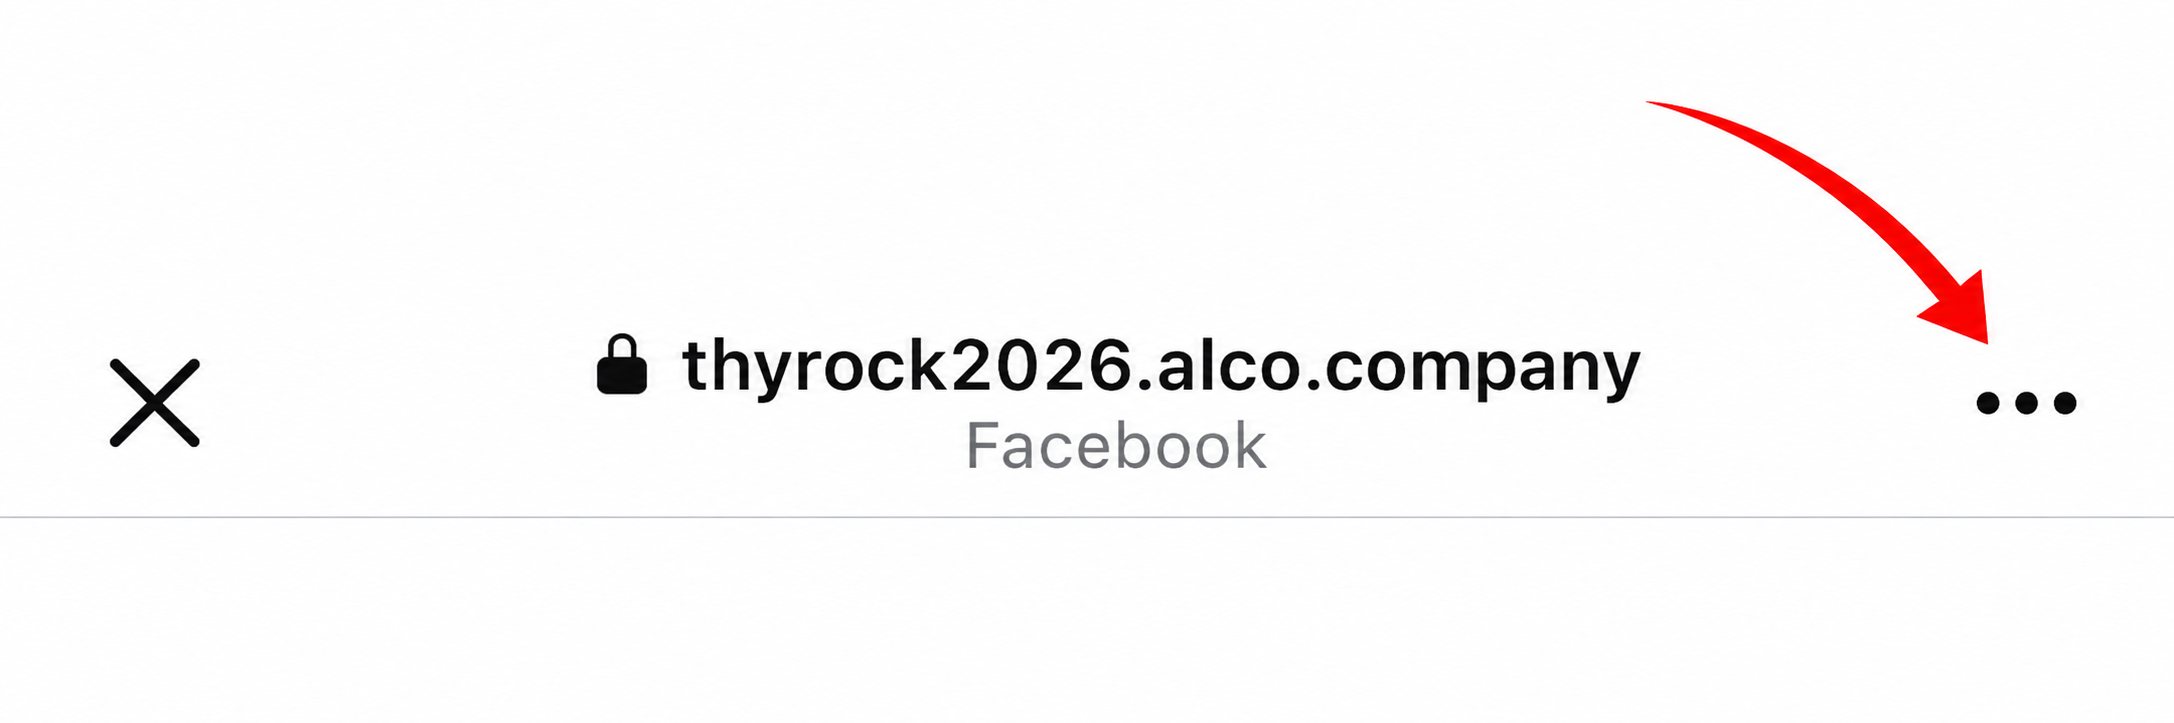
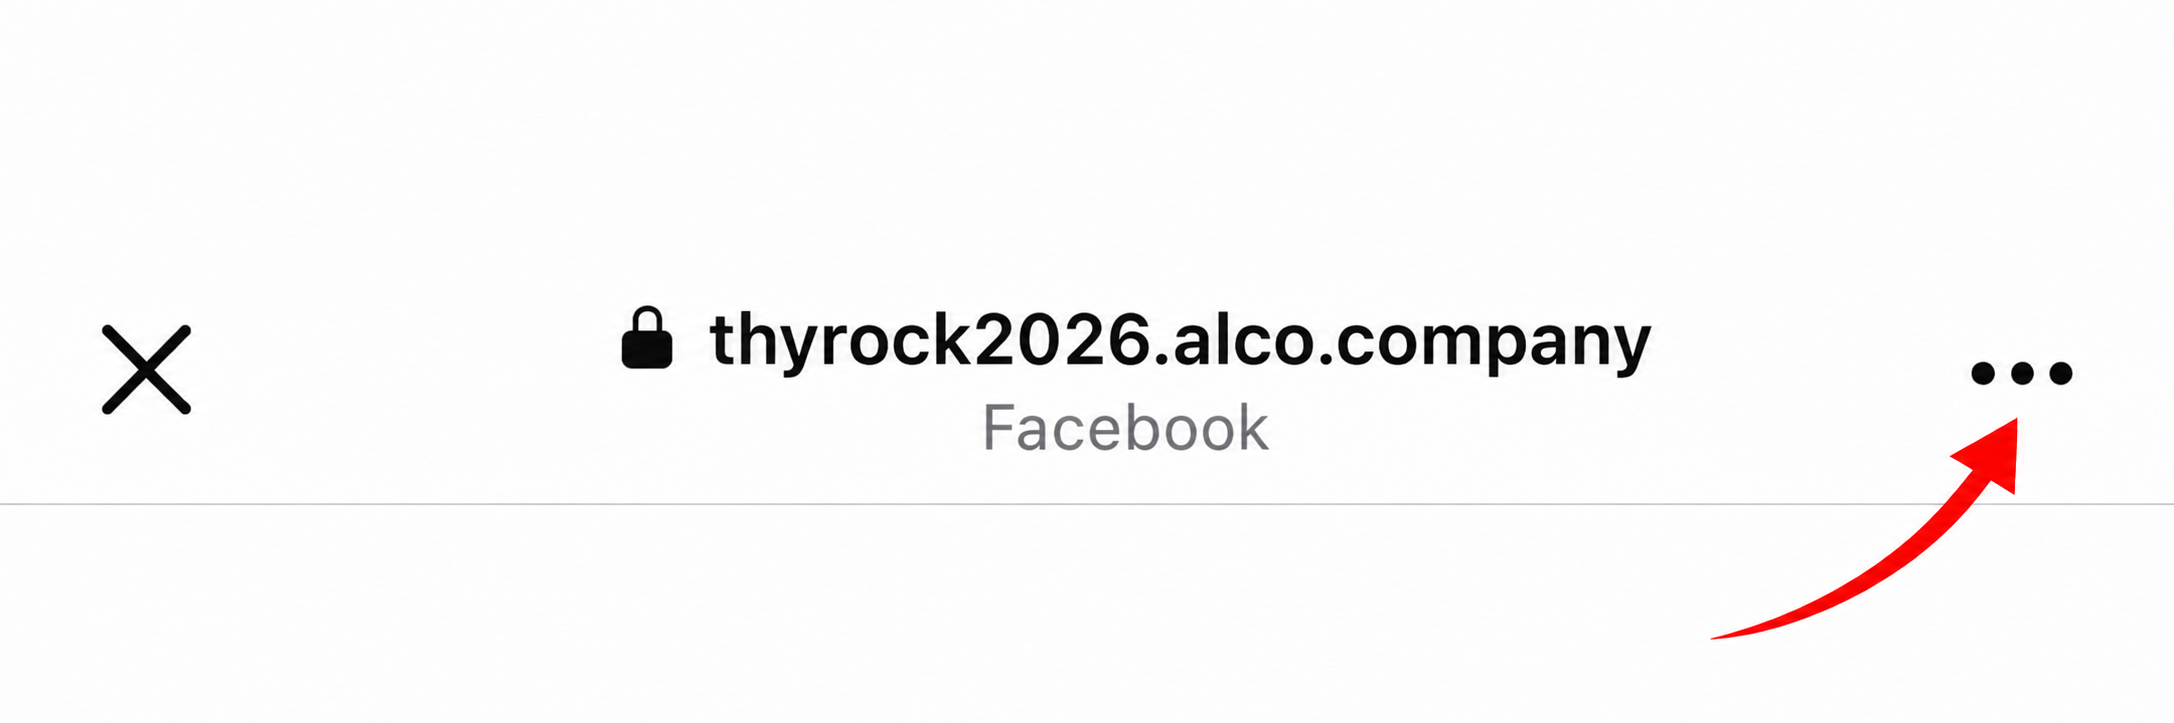
Version 3.0

diff --git a/src/routes/index.tsx b/src/routes/index.tsx
@@ -73,11 +73,6 @@ function Index() {
                   <h2 className="font-display mt-2 text-2xl leading-tight sm:text-3xl">
                     Facebooks browser kan blokere download af kalenderfilen
                   </h2>
-                  <p className="mt-3 text-sm text-foreground/85 sm:text-base">
-                    Åbn siden direkte i Safari eller Chrome før du downloader. Kopiér linket herunder,
-                    eller tryk på de tre prikker i topmenuen i Facebook og vælg “Åbn i ekstern browser”
-                    eller “Åbn i browser”.
-                  </p>
                 </div>
               </div>
 
@@ -87,13 +82,13 @@ function Index() {
                   alt="Facebook-menu med de tre prikker øverst til højre"
                   className="block w-full"
                 />
-                <div className="pointer-events-none absolute right-6 top-3 flex flex-col items-center text-[var(--hot)] sm:right-8 sm:top-4">
-                  <div className="text-3xl leading-none">↓</div>
-                  <div className="mt-1 rounded-full bg-[var(--hot)] px-3 py-1 text-[10px] font-semibold uppercase tracking-[0.2em] text-white sm:text-[11px]">
-                    Tryk her
-                  </div>
-                </div>
               </div>
+
+              <p className="mt-5 text-sm text-foreground/85 sm:text-base">
+                Åbn siden direkte i Safari eller Chrome før du downloader. Kopiér linket herunder,
+                eller tryk på de tre prikker i topmenuen i Facebook og vælg “Åbn i ekstern browser”
+                eller “Åbn i browser”.
+              </p>
 
               <div className="mt-4 text-center text-sm font-medium uppercase tracking-[0.25em] text-muted-foreground">
                 eller